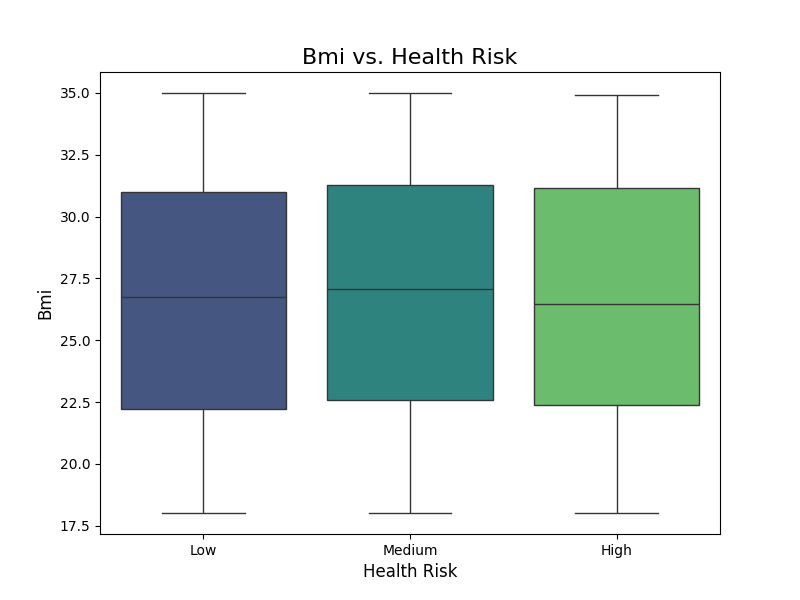
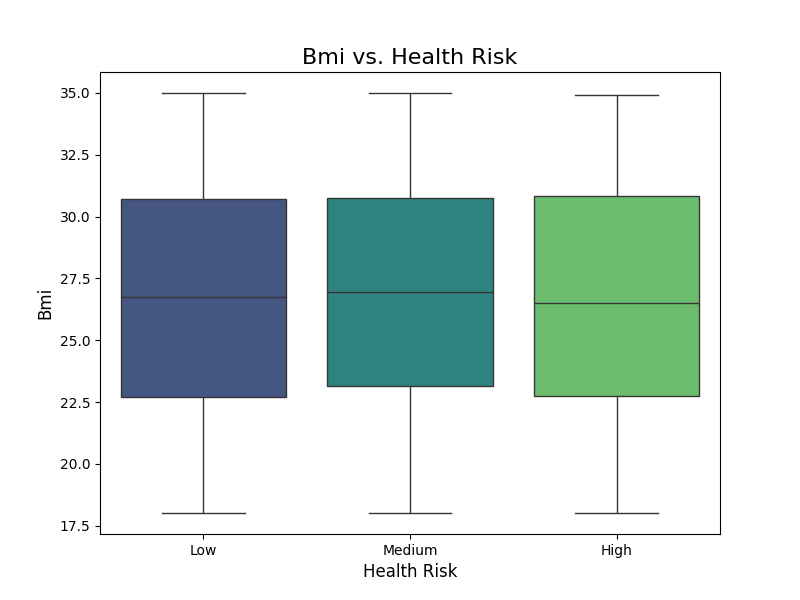
updated problem 1 codes

diff --git a/problem1.py b/problem1.py
@@ -1,13 +1,11 @@
-# To be updated
 import pandas as pd
-import numpy as np
 import matplotlib.pyplot as plt
 import seaborn as sns
 from sklearn.impute import KNNImputer
 from sklearn.preprocessing import StandardScaler
 from sklearn.model_selection import train_test_split
 from sklearn.ensemble import RandomForestClassifier
-from sklearn.metrics import accuracy_score, classification_report
+from sklearn.metrics import accuracy_score, classification_report, confusion_matrix, ConfusionMatrixDisplay
 
 dfcsv = pd.read_csv("csv/Customer_Health_Profile.csv")
 dfcsv.index = dfcsv.index+1
@@ -25,41 +23,34 @@ cat_cols = ["smoke", "exer", "risk"]
 # print(df.info())
 # column - null count - datatype
 # age - 0 - int64
-# bmi - 350 - float64 // Need to handle missing values in this column
+# bmi - 350 - float64               // Need to handle missing values in this column
 # smoke - 0 - object
 # exer - 0 - object
 # bp - 0 - int64
 # risk - 0 - object
 
-# print(df['smoke'].unique())  // Yes, No
-# print(df['exer'].unique())   // Low, Moderate, High
-# print(df['risk'].unique())   // Low, Medium, High
+# print(df['smoke'].unique())       // Yes, No
+# print(df['exer'].unique())        // Low, Moderate, High
+# print(df['risk'].unique())        // Low, Medium, High
+
 # Mapping categorical values to numeric
-smoke_mapping = {"No": 0, "Yes": 1}
-exer_mapping = {"Low": 0, "Moderate": 1, "High": 2}
-risk_mapping = {"Low": 0, "Medium": 1, "High": 2}
+df["smoke"] = df["smoke"].map({"No": 0, "Yes": 1})
+df["exer"] = df["exer"].map({"Low": 0, "Moderate": 1, "High": 2})
+df["risk"] = df["risk"].map({"Low": 0, "Medium": 1, "High": 2})
 
-df["smoke"] = df["smoke"].map(smoke_mapping)
-df["exer"] = df["exer"].map(exer_mapping)
-df["risk"] = df["risk"].map(risk_mapping)
-
-# Finding missing values with K-Nearest Neighbour Method
 df_kn = df.copy()
 df_kn[columns] = KNNImputer(n_neighbors=5).fit_transform(df[columns])
 
-# print(df.info())          // bmi : 3150 data
-# print(df_kn.info())       // bmi : 3500 data
+# print(df.info())                  // bmi : 3150 data
+# print(df_kn.info())               // bmi : 3500 data
 
-# Standartization of columns with numerical values (not categorical values)
 df_std = df_kn.copy()
 df_std[num_cols] = StandardScaler().fit_transform(df_kn[num_cols])
 
-# Splitting the data int training and test sets (70% train - 30% test)
 x = df_std[["age", "bmi", "smoke", "exer", "bp"]]
 y = df_std["risk"]
 x_train, x_test, y_train, y_test = train_test_split(x, y, test_size=0.3, stratify=y, random_state=42)
 
-# Building the model and reporting the accuracy
 model = RandomForestClassifier(random_state=42)
 model.fit(x_train, y_train)
 y_pred = model.predict(x_test)
@@ -68,37 +59,59 @@ print(f"Accuracy Score: {accuracy*100: .2f}%")
 print("Classification Report:")
 print(classification_report(y_test, y_pred))
 
-# Boxplot to visualize the relationship between numerical features and risk
+# Classification Report Table
+report = classification_report(y_test, y_pred, output_dict=True)
+report_df = pd.DataFrame(report).transpose()
+label_mapping = {
+    "0.0": "Low",
+    "1.0": "Medium",
+    "2.0": "High"
+}
+report_df.rename(index=label_mapping, inplace=True)
+fig, ax = plt.subplots()
+ax.axis("off")
+table = plt.table(
+    cellText=report_df.round(2).values,
+    colLabels=report_df.columns,
+    rowLabels=report_df.index,
+    loc="center",
+    cellLoc="center"
+)
+table.auto_set_font_size(False)
+table.set_fontsize(10)
+table.auto_set_column_width(col=list(range(len(report_df.columns))))
+plt.title("Classification Report", fontsize=14, pad= 2)
+plt.tight_layout()
+plt.show()
+
+# Numerical Values
 for col in num_cols:
     plt.figure(figsize=(8, 6))
-    sns.boxplot(x='risk', y=col, data=df, palette='viridis')
+    sns.boxplot(x='risk', y=col, data=df_kn, palette='viridis')
     plt.title(f'{col.capitalize()} vs. Health Risk', fontsize=16)
     plt.xlabel('Health Risk', fontsize=12)
     plt.ylabel(col.capitalize(), fontsize=12)
     plt.xticks(ticks=[0, 1, 2], labels=['Low', 'Medium', 'High'])
     plt.show()
 
-# Pairwise relationships
 sns.pairplot(df, hue='risk', palette='viridis', height=1.5)
 plt.show()
 
-# Crosstab for Smoking Habit vs. Health Risk
-smoke_risk_counts = pd.crosstab(df['smoke'], df['risk'])  # Raw counts
-smoke_risk_percentage = pd.crosstab(df['smoke'], df['risk'], normalize='index') * 100  # Percentages
+# Preparing Categorical Values for plot
+smoke_risk_counts = pd.crosstab(df['smoke'], df['risk'])
+smoke_risk_percentage = pd.crosstab(df['smoke'], df['risk'], normalize='index') * 100
 exer_risk_counts = pd.crosstab(df['exer'], df['risk'])
 exer_risk_percentage = pd.crosstab(df['exer'], df['risk'], normalize='index') * 100
 
-# Smoking Habit vs. Health Risk
+# Smoking Habit Plot
 fig, ax1 = plt.subplots(figsize=(8, 6))
 smoke_bars = smoke_risk_percentage.plot(kind='bar', stacked=True, ax=ax1, colormap='viridis', alpha=0.7)
-
-# Annotate Bars for Smoking Habit
 for i, p in enumerate(ax1.patches):
-    row = i // len(smoke_risk_counts.columns)  # Row index (smoking category)
-    col = i % len(smoke_risk_counts.columns)  # Column index (risk category)
+    row = i // len(smoke_risk_counts.columns)
+    col = i % len(smoke_risk_counts.columns)
     percent = smoke_risk_percentage.values[row, col]
     count = smoke_risk_counts.values[row, col]
-    if percent > 0:  # Avoid annotating zero values
+    if percent > 0:
         ax1.text(
             p.get_x() + p.get_width() / 2,          # type: ignore
             p.get_y() + p.get_height() / 2,         # type: ignore
@@ -106,7 +119,6 @@ for i, p in enumerate(ax1.patches):
             ha='center', va='center', fontsize=9, color='black'
         )
 
-# Formatting Smoking Plot
 ax1.set_title('Smoking Habit vs. Health Risk', fontsize=16)
 ax1.set_xlabel('Smoking Habit (0=No, 1=Yes)', fontsize=12)
 ax1.set_ylabel('Percentage (%)', fontsize=12)
@@ -115,17 +127,15 @@ plt.xticks(ticks=[0, 1], labels=['No', 'Yes'], fontsize=10)
 plt.tight_layout()
 plt.show()
 
-# Exercise Frequency vs. Health Risk
+# Exercise Frequency Plot
 fig, ax2 = plt.subplots(figsize=(8, 6))
 exer_bars = exer_risk_percentage.plot(kind='bar', stacked=True, ax=ax2, colormap='viridis', alpha=0.7)
-
-# Annotate Bars for Exercise Frequency
 for i, p in enumerate(ax2.patches):
-    row = i // len(exer_risk_counts.columns)        # Row index (exercise category)
-    col = i % len(exer_risk_counts.columns)         # Column index (risk category)
+    row = i // len(exer_risk_counts.columns)
+    col = i % len(exer_risk_counts.columns)
     percent = exer_risk_percentage.values[row, col]
     count = exer_risk_counts.values[row, col]
-    if percent > 0:  # Avoid annotating zero values
+    if percent > 0:
         ax2.text(
             p.get_x() + p.get_width() / 2,          # type: ignore
             p.get_y() + p.get_height() / 2,         # type: ignore
@@ -133,11 +143,16 @@ for i, p in enumerate(ax2.patches):
             ha='center', va='center', fontsize=9, color='black'
         )
 
-# Formatting Exercise Plot
 ax2.set_title('Exercise Frequency vs. Health Risk', fontsize=16)
 ax2.set_xlabel('Exercise Frequency (0=Low, 1=Moderate, 2=High)', fontsize=12)
 ax2.set_ylabel('Percentage (%)', fontsize=12)
 ax2.legend(title='Health Risk', labels=['Low', 'Medium', 'High'], bbox_to_anchor=(1.05, 1), loc='upper left')
 plt.xticks(ticks=[0, 1, 2], labels=['Low', 'Moderate', 'High'], fontsize=10)
 plt.tight_layout()
+plt.show()
+
+cm = confusion_matrix(y_test, y_pred)
+disp = ConfusionMatrixDisplay(confusion_matrix=cm, display_labels=["Low", "Medium", "High"])
+disp.plot(cmap='Blues')
+plt.title("Confusion Matrix")
 plt.show()

diff --git a/problem3.py b/problem3.py
@@ -10,7 +10,6 @@ from sklearn.impute import KNNImputer
 from sklearn.preprocessing import StandardScaler
 from sklearn.model_selection import train_test_split
 from sklearn.metrics import mean_squared_error, mean_absolute_error
-from torch.utils.data import DataLoader, TensorDataset
 
 dfcsv = pd.read_csv("csv/Rental_Price_Prediction.csv")
 dfcsv.index = dfcsv.index + 1
